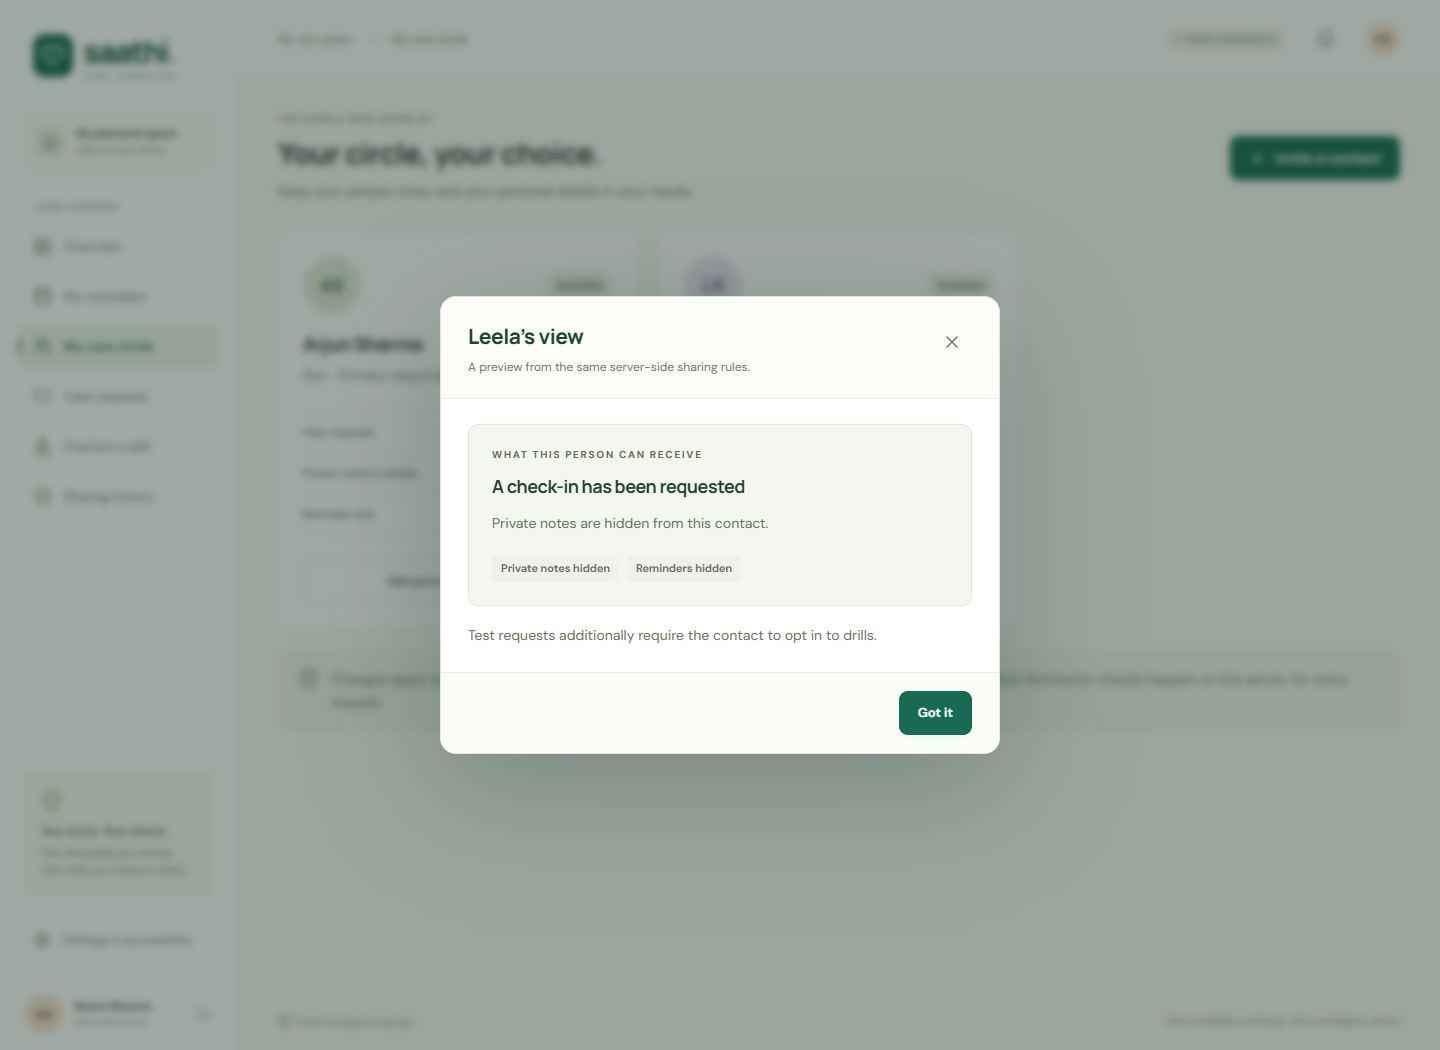
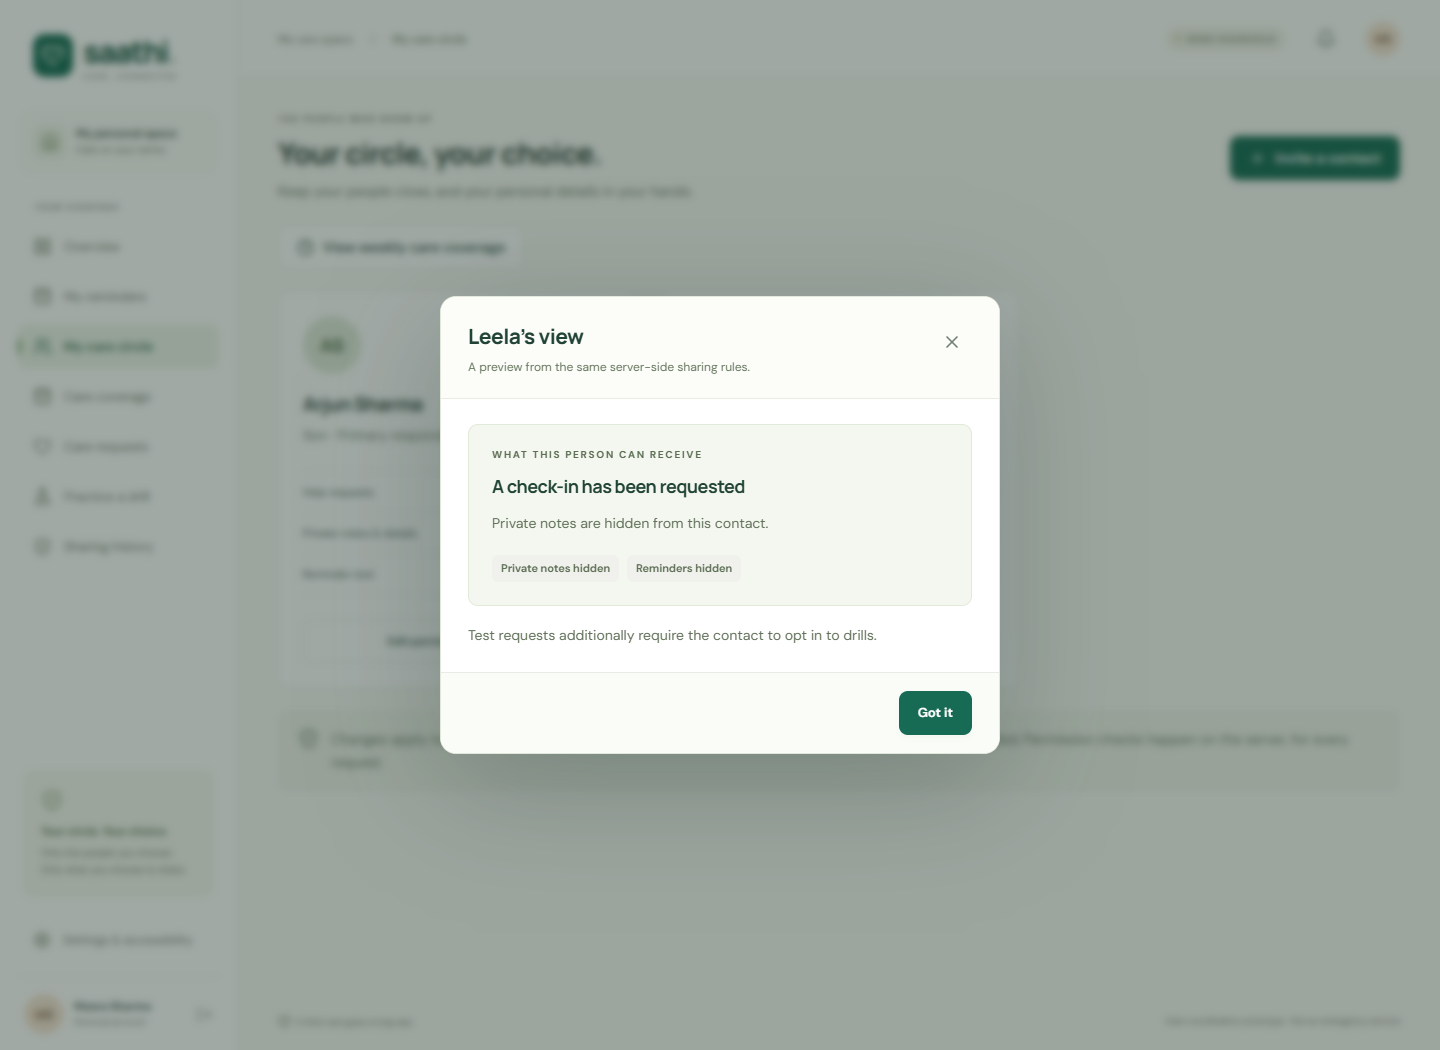
docs: explain weekly care coverage and record verified planner flows

diff --git a/docs/ARCHITECTURE.md b/docs/ARCHITECTURE.md
@@ -58,6 +58,18 @@ SQLite `BEGIN IMMEDIATE` transactions serialize state changes and prevent two re
 
 These are demonstration configuration choices, not clinically established emergency thresholds. The app performs no automatic emergency dispatch.
 
+## Weekly coverage
+
+`coverage_preferences` and `coverage_windows` store each contact's chosen availability mode and local weekday intervals. The schema is added with `CREATE TABLE IF NOT EXISTS`, preserving existing accounts and records. Schedule rows cascade when a contact is deleted, including scoped demo resets.
+
+`GET /api/coverage` returns the combined household plan to the older adult and only the signed-in caregiver's own plan to a caregiver. `PUT /api/coverage/me` derives the target contact from the session; a caller cannot edit another person by supplying their ID. Saves carry a schedule version and reject stale writes with 409. Windows use Monday=0 through Sunday=6, minutes from local midnight, inclusive start/exclusive end, and `1440` for end-of-day. Intervals must stay within one day; overnight commitments are entered as two windows. Overlapping and adjacent intervals are merged.
+
+All schedules follow the older adult's household timezone. `Intl.DateTimeFormat` determines the local weekday and minute for routing, including local clock changes. Weekly duration summaries describe the typical local wall-clock week, not elapsed UTC hours on a daylight-saving transition week. The planner splits exact interval boundaries to distinguish zero, one, and multiple eligible responders; it does not approximate coverage in hourly buckets.
+
+The current availability, participation, and request permission switches govern eligibility in both the forecast and routing. Existing contacts default to anytime availability, while a saved empty weekly plan has no coverage. Pending requests are rechecked on schedule saves and by the worker; a recipient going off schedule loses the unanswered invitation and the next currently eligible contact is considered. Acceptance is checked against current hours. Accepted ownership persists through schedule edits/end of hours, so a scheduled boundary does not abandon an active commitment. Explicit withdrawal of participation or request permission still triggers the existing handoff behavior. Read permission does not expire just because a scheduled period ends; the caregiver can finish accepted follow-up.
+
+Gaps are advisory information in the planner. A `NO_RESPONDER` incident stays visible and is not automatically restarted when a later window opens. Drill routing uses the same scheduled hours plus drill opt-in; external messages remain disabled for drills.
+
 ## Reminders
 
 - Fixed reminders accept one future UTC instant; the browser's manual date/time input is converted to UTC. Language clock times use the household timezone.
@@ -70,25 +82,27 @@ These are demonstration configuration choices, not clinically established emerge
 
 All JSON mutations require `Content-Type: application/json` and `X-Saathi-Client: web`. Other than health, sign-in, registration, and the configurable demo sign-in, endpoints require a session.
 
-| Method     | Path                               | Purpose                                                               |
-| ---------- | ---------------------------------- | --------------------------------------------------------------------- |
-| GET        | `/api/health`                      | Service and integration mode; no secrets                              |
-| POST       | `/api/auth/register`               | Register older adult, or caregiver using email-bound invite code      |
-| POST       | `/api/auth/login`                  | Password sign-in                                                      |
-| POST       | `/api/auth/demo`                   | Fictional demo role; disabled when demo mode is off                   |
-| GET / POST | `/api/auth/me`, `/api/auth/logout` | Current account / revoke current session                              |
-| GET        | `/api/dashboard`                   | Household-scoped and field-filtered current state                     |
-| POST       | `/api/contacts/invite`             | Older adult generates a three-day, single-use invitation              |
-| PATCH      | `/api/contacts/:id`                | Older adult edits permission/order; caregiver edits own participation |
-| GET        | `/api/contacts/:id/preview`        | Older adult inspects allowed view; records a preview audit event      |
-| POST       | `/api/interpret`                   | Return a proposal only; no state change                               |
-| POST       | `/api/check-ins`                   | Idempotent manual check-in                                            |
-| POST       | `/api/reminders`                   | Save a reviewed reminder                                              |
-| PATCH      | `/api/reminders/:id`               | Complete, snooze ten minutes, or cancel                               |
-| POST       | `/api/incidents`                   | Confirm a support request                                             |
-| POST       | `/api/drills`                      | Synthetic support event; no external notifications                    |
-| GET        | `/api/incidents/:id`               | Current policy-filtered incident                                      |
-| POST       | `/api/incidents/:id/respond`       | Accept, decline, resolve with outcome, or cancel                      |
+| Method     | Path                               | Purpose                                                                  |
+| ---------- | ---------------------------------- | ------------------------------------------------------------------------ |
+| GET        | `/api/health`                      | Service and integration mode; no secrets                                 |
+| POST       | `/api/auth/register`               | Register older adult, or caregiver using email-bound invite code         |
+| POST       | `/api/auth/login`                  | Password sign-in                                                         |
+| POST       | `/api/auth/demo`                   | Fictional demo role; disabled when demo mode is off                      |
+| GET / POST | `/api/auth/me`, `/api/auth/logout` | Current account / revoke current session                                 |
+| GET        | `/api/dashboard`                   | Household-scoped and field-filtered current state                        |
+| GET        | `/api/coverage`                    | Household coverage for the older adult; own schedule only for caregivers |
+| PUT        | `/api/coverage/me`                 | Caregiver saves own versioned weekly hours or any-time mode              |
+| POST       | `/api/contacts/invite`             | Older adult generates a three-day, single-use invitation                 |
+| PATCH      | `/api/contacts/:id`                | Older adult edits permission/order; caregiver edits own participation    |
+| GET        | `/api/contacts/:id/preview`        | Older adult inspects allowed view; records a preview audit event         |
+| POST       | `/api/interpret`                   | Return a proposal only; no state change                                  |
+| POST       | `/api/check-ins`                   | Idempotent manual check-in                                               |
+| POST       | `/api/reminders`                   | Save a reviewed reminder                                                 |
+| PATCH      | `/api/reminders/:id`               | Complete, snooze ten minutes, or cancel                                  |
+| POST       | `/api/incidents`                   | Confirm a support request                                                |
+| POST       | `/api/drills`                      | Synthetic support event; no external notifications                       |
+| GET        | `/api/incidents/:id`               | Current policy-filtered incident                                         |
+| POST       | `/api/incidents/:id/respond`       | Accept, decline, resolve with outcome, or cancel                         |
 
 ## Optional outbound webhook
 

diff --git a/docs/VERIFICATION.md b/docs/VERIFICATION.md
@@ -1,17 +1,17 @@
 # Verification record
 
-Verified on **18 October 2026**, using Node **24.13.0**, Windows, and installed Google Chrome in headless mode. All test data is synthetic.
+Verified on **19 October 2026**, using Node **24.13.0**, Windows, and installed Google Chrome in headless mode. All test data is synthetic.
 
 ## Results
 
-| Check                                | Result                                                                                                 |
-| ------------------------------------ | ------------------------------------------------------------------------------------------------------ |
-| TypeScript and Vite production build | Passed                                                                                                 |
-| Backend test suite                   | 21 tests passed                                                                                        |
-| Local request interpretation dataset | 30 supported/ambiguous/unsupported examples exercised within the backend suite                         |
-| Browser suite                        | 4 tests passed; final run completed in 29 seconds                                                      |
-| Accessibility scan                   | No serious or critical WCAG A/AA-tagged axe findings on entry, personal dashboard, and reminder dialog |
-| Source formatting                    | Prettier check passed                                                                                  |
+| Check                                | Result                                                                                                                                        |
+| ------------------------------------ | --------------------------------------------------------------------------------------------------------------------------------------------- |
+| TypeScript and Vite production build | Passed                                                                                                                                        |
+| Backend test suite                   | 32 tests passed                                                                                                                               |
+| Local request interpretation dataset | 30 supported/ambiguous/unsupported examples exercised within the backend suite                                                                |
+| Browser suite                        | 6 tests passed; final run completed in 40.8 seconds                                                                                           |
+| Accessibility scan                   | No serious or critical WCAG A/AA-tagged axe findings on entry, personal dashboard, reminder dialog, coverage planner, and weekly-hours editor |
+| Source formatting                    | Prettier check passed                                                                                                                         |
 
 Accessibility automation is limited to the listed screens and does not establish complete WCAG conformance or usability for every older adult. No clinical or real-user trial was performed.
 
@@ -31,6 +31,17 @@ Accessibility automation is limited to the listed screens and does not establish
 | Restart → deadlines        | Closing and reopening the SQLite database preserves reminders and pending escalation state              |
 
 ## Additional backend cases
+
+- Exact weekly gap and backup calculations, overlap merging, weekday boundaries, and household timezone handling (including repeated local times during a clock change).
+- Only the linked caregiver can edit their own schedule; stale versions and invalid/overnight ranges are rejected.
+- Off-schedule primary contacts are skipped; pending invitations hand off when scheduled hours end, while accepted responsibilities persist.
+- Coverage respects current participation, availability, and sharing permissions. Caregivers see only their own schedule, while the older adult sees combined coverage.
+
+## Coverage browser evidence
+
+Two separate caregiver accounts saved Monday hours of 18:00–22:00 and 09:00–14:00. The older adult's planner correctly displayed the 14:00–18:00 gap and the names attached to covered periods. Saved hours survived browser reload. At 390px width the planner had no horizontal document overflow. A caregiver with an empty weekly plan was skipped when the older adult requested help, and an editor opened before another save was rejected rather than overwriting newer hours. The planner and schedule editor passed the automated accessibility checks above. New tables were also verified through the running localhost API without resetting existing data.
+
+## Original backend coverage
 
 - Wrong password, expired/removed session, missing mutation protection header, and disabled demo mode.
 - Isolated households and role boundaries: a caregiver cannot create older-adult reminders or edit another contact's policy.

diff --git a/README.md b/README.md
@@ -36,6 +36,7 @@ Open **http://localhost:3001**. Data persists in `data/saathi.sqlite` across res
 | Speech             | Optional English browser speech input and read-back; text entry is always available                                          |
 | Consent            | Per-contact request, private-note, and reminder permissions; server-filtered preview; revocation on subsequent reads/actions |
 | Care response      | Primary/backup ordering, accept/decline, timeout, named ownership, overdue follow-up, explicit outcome, cancellation         |
+| Care coverage      | Caregiver-owned weekly hours, exact gap and backup periods, household timezone, and schedule-aware invitation routing        |
 | Persistence        | SQLite transactions, durable deadlines, indexed due work, event deduplication, audit and incident timelines                  |
 | Drills             | Synthetic events, accelerated timers, explicit contact opt-in, JSON report export, no external drill messages                |
 | Notifications      | Live in-app caregiver inbox; optional opt-in webhook with bounded retries and separate provider status                       |
@@ -54,6 +55,19 @@ The implementation uses the simpler persistent-backend option in the blueprint: 
 7. As Meera, inspect the timeline and sharing history, or export the drill report.
 
 Acceptance and resolution are different. An unanswered request remains visibly unresolved. Permissions are enforced by the API, not just hidden in the interface.
+
+## Plan weekly care coverage
+
+1. Sign in as a caregiver (Arjun or Leela in the demo), open **My weekly hours**, and choose **Edit my weekly hours**.
+2. Select **Only during my weekly hours**. Add one or more windows to each day you can respond, then save. **All day** adds a full-day window. An end time of `00:00` means midnight at the end of that day; split overnight hours across two days.
+3. As the older adult, open **Care coverage**. Select a day to see exact gaps, single-responder periods, and periods with a backup. The dashboard also shows who is currently scheduled.
+4. Requests skip people outside their scheduled hours. An unanswered invitation hands off if its recipient goes off schedule. Accepted responsibilities continue beyond the scheduled period until outcome or handoff.
+
+Schedules repeat weekly in the **household's timezone**, which is displayed in both the planner and editor. Caregivers set only their own hours and see only their own schedule; the older adult sees the combined plan. The availability switch, participation, and request-sharing permission still apply, so pausing participation removes that contact from the displayed coverage. Overlaps are merged; simultaneous edits cannot silently overwrite a newer save.
+
+Existing contacts retain **Any time I am marked available** until they explicitly set weekly hours. A weekly schedule with no windows means no new invitations. The plan describes scheduled availability, not guaranteed assistance; it does not automatically reopen requests that already exhausted their responders. Gaps are shown in the planner rather than sent as external alerts.
+
+![Weekly care coverage](docs/screenshots/coverage-planner.png)
 
 ## Your own household
 
